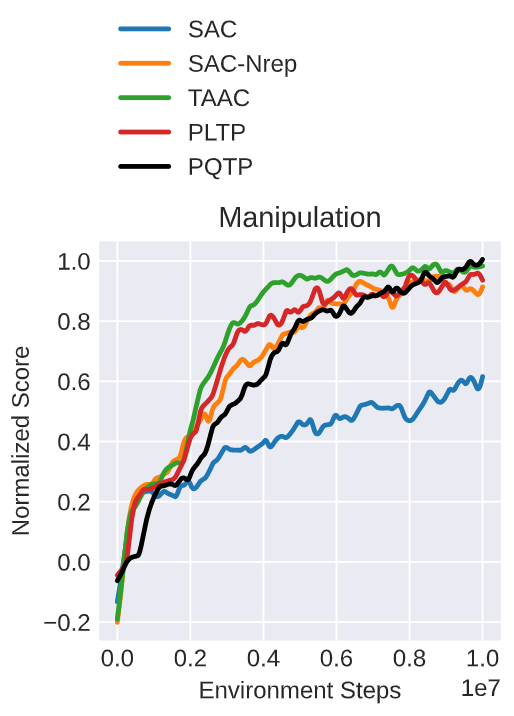
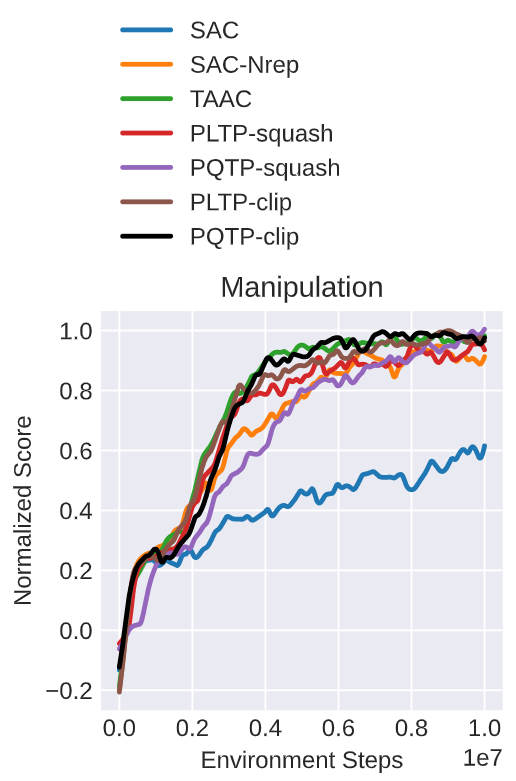
simplify pqtp and pltp

diff --git a/alf/algorithms/taac_algorithm.py b/alf/algorithms/taac_algorithm.py
@@ -789,7 +789,8 @@ class PltpAlgorithm(TaacAlgorithmBase):
             v_{t+1} &\leftarrow a_{t+1} - a_t\\
         \end{array}
 
-    Note that the above dynamics will be computed in the unsquashed action space.
+    For :math:`a\in[0,1]` and :math:`v\in[0,1]`, the actual dynamics is
+    :math:`a_{t+1}\leftarrow \max(\min(a_t+2v_{t+1},1),-1)`.
     """
 
     def __init__(self, name="PltpAlgorithm", *args, **kwargs):
@@ -803,30 +804,16 @@ class PltpAlgorithm(TaacAlgorithmBase):
         ), ("Only support actions in [-1, 1]! Consider using env wrappers to "
             "scale your action space first.")
 
-        self._inv_squash_clip = 0.999
-        self._inv_squash_range = self._atanh(
-            torch.tensor(self._inv_squash_clip))
-
-    def _atanh(self, yy):
-        # clip to prevent infy gradients
-        y = torch.clamp(yy, -self._inv_squash_clip, self._inv_squash_clip)
-        return 0.5 * torch.log((1 + y) / (1 - y))
-
     def _make_networks(self, observation_spec, action_spec, reward_spec,
                        actor_network_cls, critic_network_cls):
         def _make_parallel(net):
             return net.make_parallel(self._num_critic_replicas)
 
         tau_spec = nest.map_structure(lambda _: action_spec, Tau())
-        # Because traj contains quantities in linear space, we first squash them
-        # with tanh to (-1,1) for input normalization
         tau_embedding = nest.map_structure(
             lambda _: torch.nn.Sequential(
-                alf.layers.Lambda(torch.tanh),
-                alf.layers.FC(
-                    action_spec.numel,
-                    observation_spec.numel,
-                    activation=torch.relu_)), Tau())
+                alf.layers.FC(action_spec.numel, observation_spec.numel)),
+            Tau())
         tau_mask = Tau(a=True, v=True, u=False)
 
         actor_network = actor_network_cls(
@@ -837,7 +824,6 @@ class PltpAlgorithm(TaacAlgorithmBase):
             action_spec=action_spec)
         critic_network = critic_network_cls(
             input_tensor_spec=(observation_spec, tau_spec),
-            action_input_processors=tau_embedding,
             action_preprocessing_combiner=nest_utils.NestConcat(
                 nest_mask=tau_mask))
         critic_networks = _make_parallel(critic_network)
@@ -849,18 +835,18 @@ class PltpAlgorithm(TaacAlgorithmBase):
         """Compute next action on a linear trajectory specified by a pair of
         ('action', 'action derivative').
         """
-        return tau._replace(a=tau.a + tau.v)
+        a = torch.clamp(tau.a + 2. * tau.v, min=-1., max=1.)
+        return tau._replace(a=a)
 
     def _action2tau(self, a, tau):
         """Given a new action at the next step and the current traj ``tau``, infer
         the new traj's first derivative.
         """
-        a = self._atanh(a)  # unsquash
-        v = a - tau.a
+        v = (a - tau.a) / 2.
         return Tau(a=a, v=v, u=v)
 
     def _tau2action(self, tau):
-        return tau.a.tanh()
+        return tau.a
 
 
 @alf.configurable
@@ -875,7 +861,7 @@ class PqtpAlgorithm(PltpAlgorithm):
         \begin{array}{ll}
             u_{t+1} &\leftarrow u_t\\
             v_{t+1} &\leftarrow u_{t+1} + v_t\\
-            a_{t+1} &\leftarrow \frac{v_t + v_{t+1}}{2} + a_t\\
+            a_{t+1} &\leftarrow v_{t+1} + a_t\\
         \end{array}
 
     Pqtp's trajectory is piece-wise quadratic. Each time the policy decides whether
@@ -888,12 +874,15 @@ class PqtpAlgorithm(PltpAlgorithm):
 
         \begin{array}{ll}
             a_{t+1} &\sim \pi\\
-            v_{t+1} &\leftarrow 2(a_{t+1} - a_t)\\
+            v_{t+1} &\leftarrow a_{t+1} - a_t\\
             u_{t+1} &\leftarrow v_{t+1}\\
         \end{array}
 
     where the last two steps assume resetting :math:`v_t` to zero.
-    Note that the above dynamics will be computed in the unsquashed action space.
+
+    For :math:`a\in[0,1]`, :math:`v\in[0,1]`, and :math:`u\in[0,1]`, the actual
+    dynamics is :math:`v_{t+1}\leftarrow \max(\min(v_t+2u_{t+1},1),-1)` and
+    :math:`a_{t+1}\leftarrow \max(\min(a_t+2v_{t+1},1),-1)`.
     """
 
     def __init__(self, name="PqtpAlgorithm", *args, **kwargs):
@@ -907,15 +896,10 @@ class PqtpAlgorithm(PltpAlgorithm):
             return net.make_parallel(self._num_critic_replicas)
 
         tau_spec = nest.map_structure(lambda _: action_spec, Tau())
-        # Because traj contains quantities in linear space, we first squash them
-        # with tanh to (-1,1) for input normalization
         tau_embedding = nest.map_structure(
             lambda _: torch.nn.Sequential(
-                alf.layers.Lambda(torch.tanh),
-                alf.layers.FC(
-                    action_spec.numel,
-                    observation_spec.numel,
-                    activation=torch.relu_)), Tau())
+                alf.layers.FC(action_spec.numel, observation_spec.numel)),
+            Tau())
 
         actor_network = actor_network_cls(
             input_tensor_spec=(observation_spec, tau_spec),
@@ -924,7 +908,6 @@ class PqtpAlgorithm(PltpAlgorithm):
             action_spec=action_spec)
         critic_network = critic_network_cls(
             input_tensor_spec=(observation_spec, tau_spec),
-            action_input_processors=tau_embedding,
             action_preprocessing_combiner=nest_utils.NestConcat())
         critic_networks = _make_parallel(critic_network)
 
@@ -936,58 +919,17 @@ class PqtpAlgorithm(PltpAlgorithm):
         of ('action', 'action derivative', and 'action second derivative').
         """
         # normal update
-        v_ = tau.v + tau.u
-        da = (v_ + tau.v) / 2.
-        a_ = tau.a + da
-
-        def _compute_reflection(b, traj):
-            """The reason for reflecting the quadratic trajectory is to prevent
-            saturation at action boundaries after squashing. With reflection,
-            the squashed trajectory will be periodic.
-            """
-            a, v, u = traj.a, traj.v, traj.u
-            b2_4ac = v**2 + 2 * u * (b - a)
-            # two roots for a quadratic equation
-            dt1 = (-v - torch.sqrt(b2_4ac)) / u
-            dt2 = (-v + torch.sqrt(b2_4ac)) / u
-            # dt is the delta time taken to reach the boundary ``b``
-            dt = torch.where(((b - a) * u < 0) ^ (u > 0), dt2, dt1)
-
-            # reflect at the boundary ``b``
-            vr = -(v + u * dt)
-            v_ = vr + (1 - dt) * u
-            a_ = b + (vr + v_) / 2. * (1 - dt)
-            return a_, v_
-
-        # test which actions will go beyond the range after updating
-        clipped = (a_ > self._inv_squash_range) | (a_ <
-                                                   -self._inv_squash_range)
-        # obtain the boundary ``a_`` is going to reach
-        b = self._inv_squash_range * (
-            2 * (a_ > self._inv_squash_range).to(torch.float32) - 1)
-
-        shape = a_.shape
-        # conditional_update only accepts 1d cond bool tensor
-        a_, v_ = conditional_update(
-            target=(a_.reshape(-1), v_.reshape(-1)),
-            cond=clipped.reshape(-1),
-            func=_compute_reflection,
-            b=b.reshape(-1),
-            traj=nest.map_structure(lambda x: x.reshape(-1), tau))
-
-        return Tau(a=a_.reshape(*shape), v=v_.reshape(*shape), u=tau.u)
+        v = torch.clamp(tau.v + tau.u * 2., min=-1., max=1.)
+        a = torch.clamp(tau.a + v * 2., min=-1., max=1.)
+        return Tau(a=a, v=v, u=tau.u)
 
     def _action2tau(self, a, tau):
         """Given a new action at the next step and the current traj ``tau``, infer
         the new traj's second derivative, assuming resetting ``tau.v`` to 0 first.
         """
-        a = self._atanh(a)  # unsquash
-        v_ = torch.zeros_like(tau.v)
-        #v_ = traj_state.v
-
-        v = 2 * (a - tau.a) - v_
-        u = v - v_
+        v = (a - tau.a) / 2.
+        u = v / 2.
         return Tau(a=a, v=v, u=u)
 
     def _tau2action(self, tau):
-        return tau.a.tanh()
+        return tau.a

diff --git a/alf/examples/taac_bipedal_walker_conf.py b/alf/examples/taac_bipedal_walker_conf.py
@@ -16,7 +16,7 @@ from functools import partial
 
 import alf
 from alf.algorithms.data_transformer import RewardNormalizer
-from alf.algorithms.taac_algorithm import TaacAlgorithm
+from alf.algorithms.taac_algorithm import TaacAlgorithm, PltpAlgorithm, PqtpAlgorithm
 from alf.networks import NormalProjectionNetwork, ActorDistributionNetwork, CriticNetwork
 from alf.optimizers import AdamTF
 from alf.utils import dist_utils, math_ops
@@ -54,7 +54,8 @@ alf.config(
                     partial(
                         dist_utils.calc_default_target_entropy, min_prob=0.1)))
 
-alf.config('Agent', rl_algorithm_cls=TaacAlgorithm, optimizer=AdamTF(lr=5e-4))
+alg = TaacAlgorithm  # PltpAlgorithm PqtpAlgorithm
+alf.config('Agent', rl_algorithm_cls=alg, optimizer=AdamTF(lr=5e-4))
 
 # training config
 alf.config(
